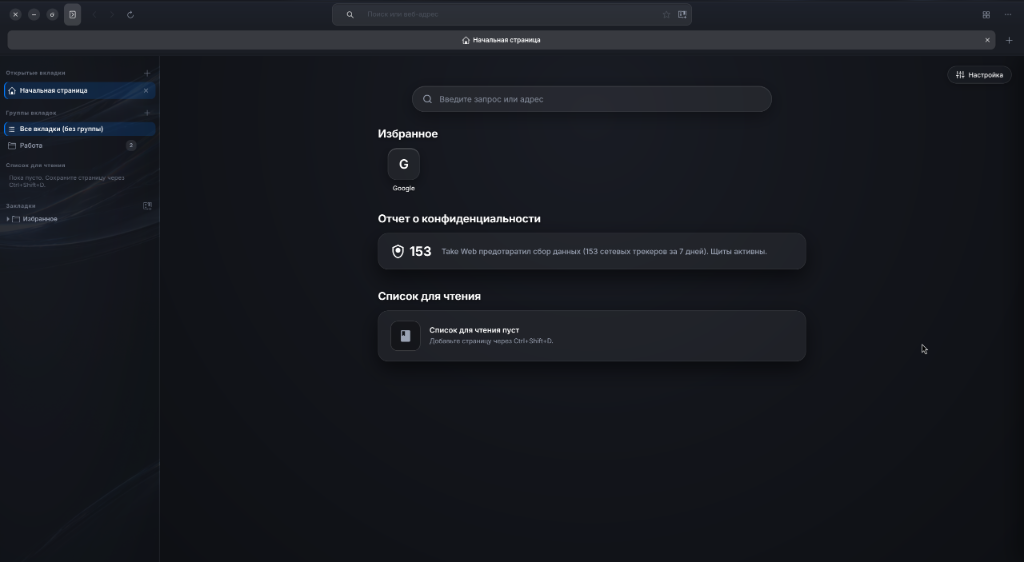
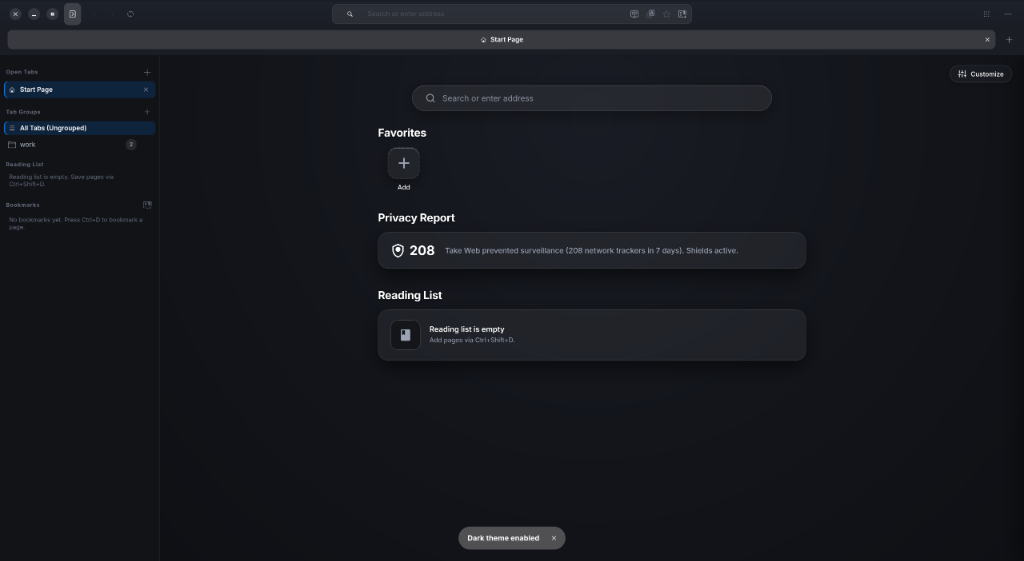
docs: update screenshots in READMEs with new features and light/dark start pages

diff --git a/README.ru.md b/README.ru.md
@@ -31,9 +31,14 @@
 **Вкладки и окна**
 - Вертикальная боковая панель с группами вкладок, списком для чтения и закладками.
 - Split View (`F3` или `Ctrl+\`): два сайта рядом.
+- Обзор вкладок (`Ctrl+Shift+E`): наглядная сетка открытых обычных и приватных вкладок.
 - Режим чтения (`F9`) без картинок и рекламы, с тёмной и светлой темой.
 - Режим приложения: `takeweb --app=<URL>` открывает сайт в окне без адресной строки и создаёт ярлык `.desktop`.
 - Медиаклавиши и управление плеером через MPRIS.
+
+| Обзор вкладок (`Ctrl+Shift+E`) | Режим чтения (`F9`) |
+| :---: | :---: |
+| <img src="assets/screenshots/tab_overview.png" width="420" alt="Обзор вкладок"> | <img src="assets/screenshots/reader_mode.png" width="420" alt="Режим чтения"> |
 
 **Приватность**
 - Блокировка рекламы и трекеров правилами `WebKitUserContentFilter`. Фильтрация идёт до парсинга страницы, расширения не нужны. В окне Take Shield видно, какие трекеры заблокированы на текущем сайте.

diff --git a/README.md b/README.md
@@ -31,9 +31,14 @@ Status: Beta. I use it as my daily driver, but it has not been tested widely acr
 **Tabs and Window Management**
 - Vertical sidebar with collapsible tab groups, reading list, and bookmarks.
 - Split View (`F3` or `Ctrl+\`): view two sites side-by-side with separate navigation controls.
+- Tab Overview (`Ctrl+Shift+E`): visual overview grid of normal and private tabs.
 - Reader Mode (`F9`): stripped of images, ads, and tracking scripts, with dark and light theme styles.
 - Web App Mode: `takeweb --app=<URL>` opens sites in standalone windows without address bars and generates desktop shortcuts.
 - Media controls via MPRIS (system tray and media keys).
+
+| Tab Overview (`Ctrl+Shift+E`) | Reader Mode (`F9`) |
+| :---: | :---: |
+| <img src="assets/screenshots/tab_overview.png" width="420" alt="Tab Overview"> | <img src="assets/screenshots/reader_mode.png" width="420" alt="Reader Mode"> |
 
 **Privacy and Security**
 - Ad and tracker blocking via native WebKit content filtering rules (`WebKitUserContentFilter`). Filtering runs before page parsing, without needing third-party extensions. The Take Shield popover displays blocked trackers for the current site.
